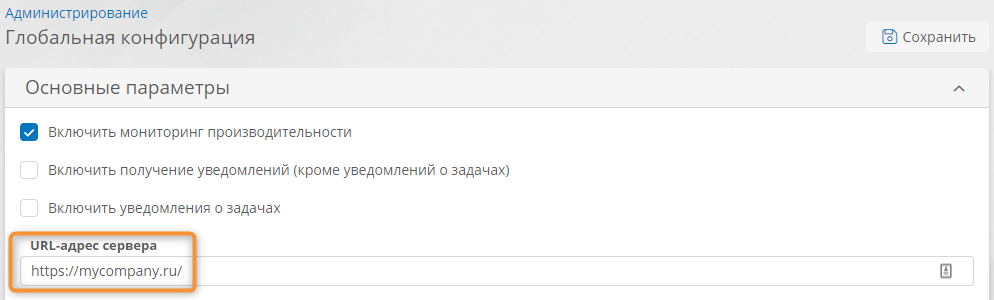
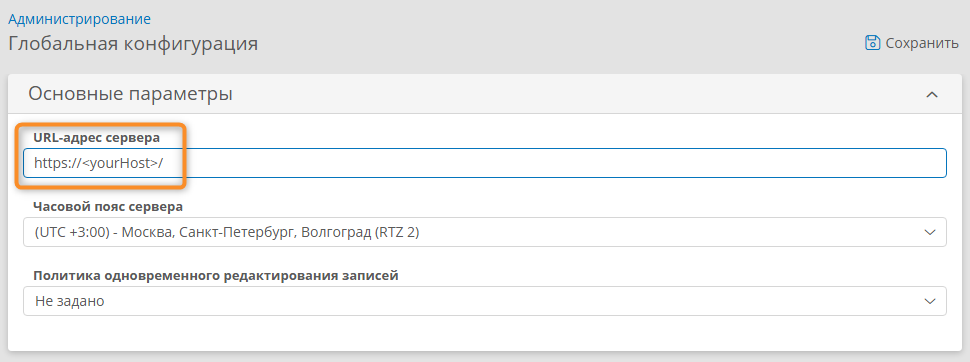
[#10238417] Revised keycloak_connection.md

Changed region(s): [[0.0, 0.21, 1.0, 1.0], [0.0, 0.03, 0.2784, 0.18], [0.866, 0.09, 0.9897, 0.15]]

diff --git a/docs/ru/administration/connections_communication_routes/authentication/keycloak_connection.md b/docs/ru/administration/connections_communication_routes/authentication/keycloak_connection.md
@@ -1,111 +1,122 @@
 ---
-title: Аутентификация через OpenID Connect
+title: 'Аутентификация через OpenID Connect. Настройка подключения и служб'
 kbId: 4685
 ---
 
-# Аутентификация через OpenID Connect. Настройка подключения и служб {: #openid_connection}
+# Аутентификация через OpenID Connect. Настройка подключения и служб {: #openid_connection }
 
-## Проверка адреса сервера {{ productName }}
+## Введение {: #openid_connection_intro }
 
-1. Откройте раздел [«**Администрирование**» — «**Глобальная конфигурация**»][administration].
-2. Удостоверьтесь, что **URL-адрес сервера** начинается с `https://`.
+Здесь представлены краткие инструкции по настройке аутентификации в **{{ productName }}** посредством Keycloak и клиента OpenID Connect.
 
-    _![Проверка адреса сервера](openid_connection_check.png)_
+## Подготовка к настройке {: #openid_connection_prerequisites }
 
-## Настройка API на примере Keycloak — этап 1 {: .pageBreakBefore }
+Перед настройкой аутентификации через Keycloak подготовьте следующие сведения:
 
-1. Откройте админскую консоль Keycloak
-2. В левом меню выбирете **master** область(realm) или, если нужная область(realm) существует, выбирете её
+- `<yourHost>` — адрес сервера из [глобальной конфигурации](#openid_connection_server_address) **{{ productName }}**;
+- `<instanceName>.yml` — путь к файлу конфигурации экземпляра **{{ productName }}** (cм. _«[Пути и содержимое папок экземпляра ПО][paths]»_).
 
-_![Переход к управлению областями(realms)](openid_manage_realms.png)_
+## Проверка подключения сервера {{ productName }} по протоколу HTTPS {: #openid_connection_server_address }
 
-3. Если нужная область(realm) отсутствуют, нажмите кнопку **Create realm** и введите наименование, например _myRealm_ и нажмите кнопку **Create**.
+1. Откройте страницу [«**Администрирование**» — «**Глобальная конфигурация**»][global_configuration].
+2. Удостоверьтесь, что **URL-адрес сервера** начинается с `https://`.
 
-_![создание новой области(realm)](openid_create_new_realm.png)_
+    _![Проверка адреса сервера](img/openid_connection_check.png)_
 
-4. В левом меню нажмите кнопку **Clients**
-5. Нажмите кнопку **Create client**
-6. Введите «**Client ID**», например _myClient_.
+## Настройка Keycloak {: #openid_connection_keycloak_configure .pageBreakBefore }
 
-_![создание нового клиента](openid_create_new_client.png)_
+1. Откройте консоль администратора Keycloak
+2. В левом меню выберите область (realm) **master** или другую существующую область.
 
-7. Во вкладке **Capability config** включите **Client authentication** и **Direct access grants**
+    _![Переход к управлению областями (realms) Keycloak](img/openid_manage_realms.png)_
 
-_![создание нового клиента](openid_create_new_client_2.png)_
+3. Если требуемая область (realm) отсутствует, нажмите кнопку **Create realm** (Создать область)? введите имя области, например _myRealm_, и нажмите кнопку **Create** (Создать).
 
-8. Во вкладке **Login settings** укажите **Root URL**, **Home URL**, **Valid redirect URIs**, **Web origins**
-(например: https://mycompany.ru/, https://mycompany.ru/, https://mycompany.ru/*, https://mycompany.ru/, соответственно, где mycompany.ru URL-адрес сервера из глобальной конфигурации)
+    _![Создание области (realm) Keycloak](img/openid_create_new_realm.png)_
 
-_![создание нового клиента](openid_create_new_client_3.png)_
+4. В левом меню выберите пункт **Clients** (Клиенты).
+5. Нажмите кнопку **Create client** (Создать клиент).
+6. Выберите «**Client type**» (Тип клиента): **OpenID Connect**.
+7. Введите «**Client ID**» (ID клиента), например _myClient_.
 
-9. Нажмите кнопку «**Save**».
-10. На отобразившейся странице нажмите отключите **Logout settings Front channel logout** и введите **Backchannel logout URL**.
-(например: https://mycompany.ru/OpenIdLogoutChallenge где mycompany.ru URL-адрес сервера из глобальной конфигурации)
+    _![Создание нового клиента Keycloak](img/openid_create_new_client.png)_
 
-_![создание нового клиента](openid_logout_settings.png)_
+8. На вкладке **Capability config** (Конфигурация совместимости) включите функции **Client authentication** (Аутентификация клиента) и **Direct access grants** (Прямое предоставление прав).
 
-11. Скопируйте **Client Secret** с вкладки **Credentials**_
+    _![Настройка конфигурации совместимости клиента Keycloak](img/openid_create_new_client_2.png)_
 
-_![создание нового клиента](openid_copy_client_secret.png)_
+10. На вкладке **Login settings** (Параметры входа) укажите **Root URL** (Корневой URL), **Home URL**  (URL начальной страницы), **Valid redirect URIs** (URI допустимых переадресаций), **Web origins** (Исходные URI)
+(например: `https://<yourHost>/`, `https://<yourHost>/`, `https://<yourHost>/*`, `https://<yourHost>/`, соответственно).
 
+    _![Настройка параметров входа для клиента Keycloak](img/openid_create_new_client_3.png)_
 
-## Настройка API на примере Keycloak — этап 2 {: .pageBreakBefore }
+11. Нажмите кнопку «**Save**» (Сохранить).
+12. На отобразившейся странице отключите функцию **Front channel logout** (Выход через прямой канал) и введите **Backchannel logout URL** (URL выхода через обратный канал) (например: `https://<yourHost>/OpenIdLogoutChallenge`).
 
-1. В левом меню нажмите кнопку ***Users**
-2. Для того чтобы создать нового пользователя нажмите кнопку **Create new user** или **Add user**, если пользователи уже есть
-3. Заполните поля Username, Email, First name, Last name
-4. Включите **Email verified**
-4. Нажмите кнопку **Create**
+    _![Настройка параметров выхода для клиента Keycloak](img/openid_logout_settings.png)_
 
-_![создание нового клиента](openid_create_new_user.png)_
+13. Сохраните **Client Secret** (Секрет клиента) с вкладки **Credentials** (его потребуется указать в директиве `auth.openId.clientSecret` в [файле конфигурации {{ productnName }}](#openid_connection_instance_configure)).
 
-5. Во вкладке Credentials нажимте кнопку **Set password**
-6. Установите временный пароль для пользователя
+    _![Настройка учётных данных для клиента Keycloak](img/openid_copy_client_secret.png)_
 
-_![создание нового клиента](openid_create_new_user_set_password.png)_
+14. В левом меню нажмите кнопку ***Users** (Пользователи).
+15. Создайте нового пользователя, нажав кнопку **Create new user** (Создать пользователя), или добавьте имеющегося пользователя, нажав кнопку **Add user** (Добавить пользователя).
+16. Заполните поля **Username** (Логин), **Email** (Адрес эл.&nbsp;почты), **First name** (Имя), **Last name** (Фамилия).
+17. Включите функцию **Email verified** (Адрес эл.&nbsp;почты подтверждён).
+18. Нажмите кнопку **Create** (Создать).
 
+    _![Создание нового пользователя Keycloak](img/openid_create_new_user.png)_
 
-### Настройка конфигурации пратформы {: .pageBreakBefore }
+19. На вкладке **Credentials** (Учётные данные) нажмите кнопку **Set password** (Установить пароль).
+20. Задайте временный пароль для пользователя.
 
-1. В файле конфигурации платформы заполните поля:
+    _![Создание нового пользователя Keycloak](img/openid_create_new_user_set_password.png)_
 
-#################### Настройки OpenId-аутентификации ####################
-# Имя OpenId сервиса использующегося для входа
-auth.openId.displayName: MyKeycloak
+### Настройка конфигурации {{ productName }} {: #openid_connection_instance_configure .pageBreakBefore }
 
-# Вкл./выкл. функции
-auth.openId.enabled: true
+1. В файле конфигурации экземпляра **{{ productName }}** (`<instanceName>.yml`) настройте директивы по следующему образцу:
 
-# Адрес сервера OpenId Connect
-auth.openId.server: https://my.Keycloak.ru
-
-# Пространство имен или контекст, в котором происходит аутентификация пользователей. Используется для управления идентификацией и доступом в системе OpenID Connect
-auth.openId.realm: myRealm
-
-# Уникальный идентификатор клиентского приложения, используемый для аутентификации и авторизации запросов в рамках протокола OpenID Connect
-auth.openId.clientId: myClient
-
-# Секретный ключ OpenId Connect
-auth.openId.clientSecret: _скопированный Сlient Secret_
-
-# Список идентификаторов целевой аудитории, для которой предназначены токены, используемые в процессе аутентификации и авторизации в OpenID Connect.
-auth.openId.audience: myAudience
+    ``` yaml
+    #### Настройки OpenID-аутентификации #####
+    # Имя сервиса OpenID, используемого для входа
+    auth.openId.displayName: <myKeycloak>
+    # Вкл./выкл. функции
+    auth.openId.enabled: true
+    # Адрес сервера OpenId Connect
+    auth.openId.server: https://<myKeycloakHost>
+    # Пространство имен или контекст, 
+    # в котором происходит аутентификация пользователей.
+    # Используется для управления идентификацией
+    # и доступом в системе OpenID Connect
+    auth.openId.realm: myRealm
+    # Уникальный идентификатор клиентского приложения,
+    # используемый для аутентификации и авторизации запросов
+    # в рамках протокола OpenID Connect
+    auth.openId.clientId: myClient
+    # Секретный ключ OpenId Connect
+    # Это сохранённый ранее секрет клиента
+    auth.openId.clientSecret: <keyCloakClientSecret>
+    # Список идентификаторов целевой аудитории,
+    # для которой предназначены токены, 
+    # используемые в процессе аутентификации и авторизации в OpenID Connect.
+    auth.openId.audience: myAudience
+    ```
 
 ## Настройка ОС Linux для включения аутентификации через OpenID Connect в {{ productName }} {: .pageBreakBefore }
 
-1. Перейдите в режим суперпользователя `root`:
+1. Перейдите в режим суперпользователя `root`:
 
     --8<-- "linux_sudo.md"
 
-2. Добавьте в файл `/etc/hosts` строку:
+2. Добавьте в файл `/etc/hosts` строку:
 
     ```
-    "xxx.xxx.xxx.xxx" "mycompany.ru"
+    "xxx.xxx.xxx.xxx" "<yourHost>"
     ```
 
-    Здесь `xxx.xxx.xxx.xxx` — IP-адрес, `mycompany.ru` адрес сервера **{{ productName }}**, указанный в [_глобальной конфигурации {{ productName }}_](#проверка-адреса-сервера-comindware-platform) (без указания протокола `HTTP` или `HTTPS`).
+    Здесь `xxx.xxx.xxx.xxx` — IP-адрес, `<yourHost>` адрес сервера **{{ productName }}**, указанный в [_глобальной конфигурации {{ productName }}_](#проверка-адреса-сервера-comindware-platform) (без указания протокола `HTTP` или `HTTPS`).
 
-3. Сформируйте SSL-сертификат на сервере NGINX. Например, согласно инструкциям в статье «[_Генерация SSL сертификата для NGINX (openssl)_](https://webguard.pro/web-services/nginx/generacziya-ssl-sertifikata-dlya-nginx-openssl.html)».
+3. Сформируйте SSL-сертификат на сервере NGINX. Например, согласно инструкциям в статье _«[Генерация SSL сертификата для NGINX (openssl)](https://webguard.pro/web-services/nginx/generacziya-ssl-sertifikata-dlya-nginx-openssl.html)»_.
 4. Откройте для редактирования файл конфигурации NGINX:
 
     ```
@@ -122,7 +133,7 @@ auth.openId.audience: myAudience
         listen 443 ssl;
 
         root /var/www/<instanceName>;
-        server_name mycompany.ru;
+        server_name <yourHost>;
 
         ssl_certificate /etc/nginx/ssl/nginx.crt;
         ssl_certificate_key /etc/nginx/ssl/nginx.key;
@@ -147,32 +158,36 @@ auth.openId.audience: myAudience
     nginx -t
     ```
 
-8. Перезапустите **{{ productName }}**:
+8. Перезапустите **{{ productName }}**:
 
     ```
     systemctl restart elasticsearch nginx comindware<instanceName>
     ```
 
-{% endif %}
+## Вход в {{ productName }} через Keycloak {: .pageBreakBefore }
 
-## Вход в {{ productName }} {: .pageBreakBefore }
-
-1. Откройте веб-сайт экземпляра {{ productName }}, например [https://mycompany.ru](https://mycompany.ru/)
+1. Откройте веб-сайт экземпляра **{{ productName }}**, например [https://<yourHost>](https://<yourHost>/)
 2. Нажмите кнопку «**Войти как администратор**».
 
-    _![Переход к странице входа администратора](openid_connection_administrator_entry.png)_
+    _![Переход к странице входа администратора](img/openid_connection_administrator_entry.png)_
 
 3. Введите свои учётные данные и нажмите кнопку «**Войти**».
 
-    _![Вход с аккаунтом администратора](openid_connection_administrator.png)_
+    _![Вход с аккаунтом администратора](img/openid_connection_administrator.png)_
 
     {% include-markdown ".snippets/pdfPageBreakHard.md" %}
 
 4. Выйдите из системы.
-5. Отобразится страница входа с кнопкой «**Войти с помощью MyKeycloak**».
+5. Отобразится страница входа с кнопкой «**Войти с помощью myKeycloak**».
+6. На этом настройка входа через OpenID Connect завершена. Теперь пользователи смогут входить в **{{ productName }}** с использованием своих аккаунтов через Keycloak.
 
-    _![Кнопка «Войти с помощью MyKeycloak](openid_connection_Keycloak_entry.png)_
+<div class="relatedTopics" markdown="block">
 
-6. На этом настройка входа через OpenID Connect завершена. Теперь пользователи смогут входить в **{{ productName }}** с помощью своих аккаунтов Keycloak.
+--8<-- "related_topics_heading.md"
+
+- [Глобальная конфигурация][global_configuration]
+- [Пути и содержимое папок экземпляра ПО][paths]
+
+</div>
 
 {% include-markdown ".snippets/hyperlinks_mkdocs_to_kb_map.md" %}
